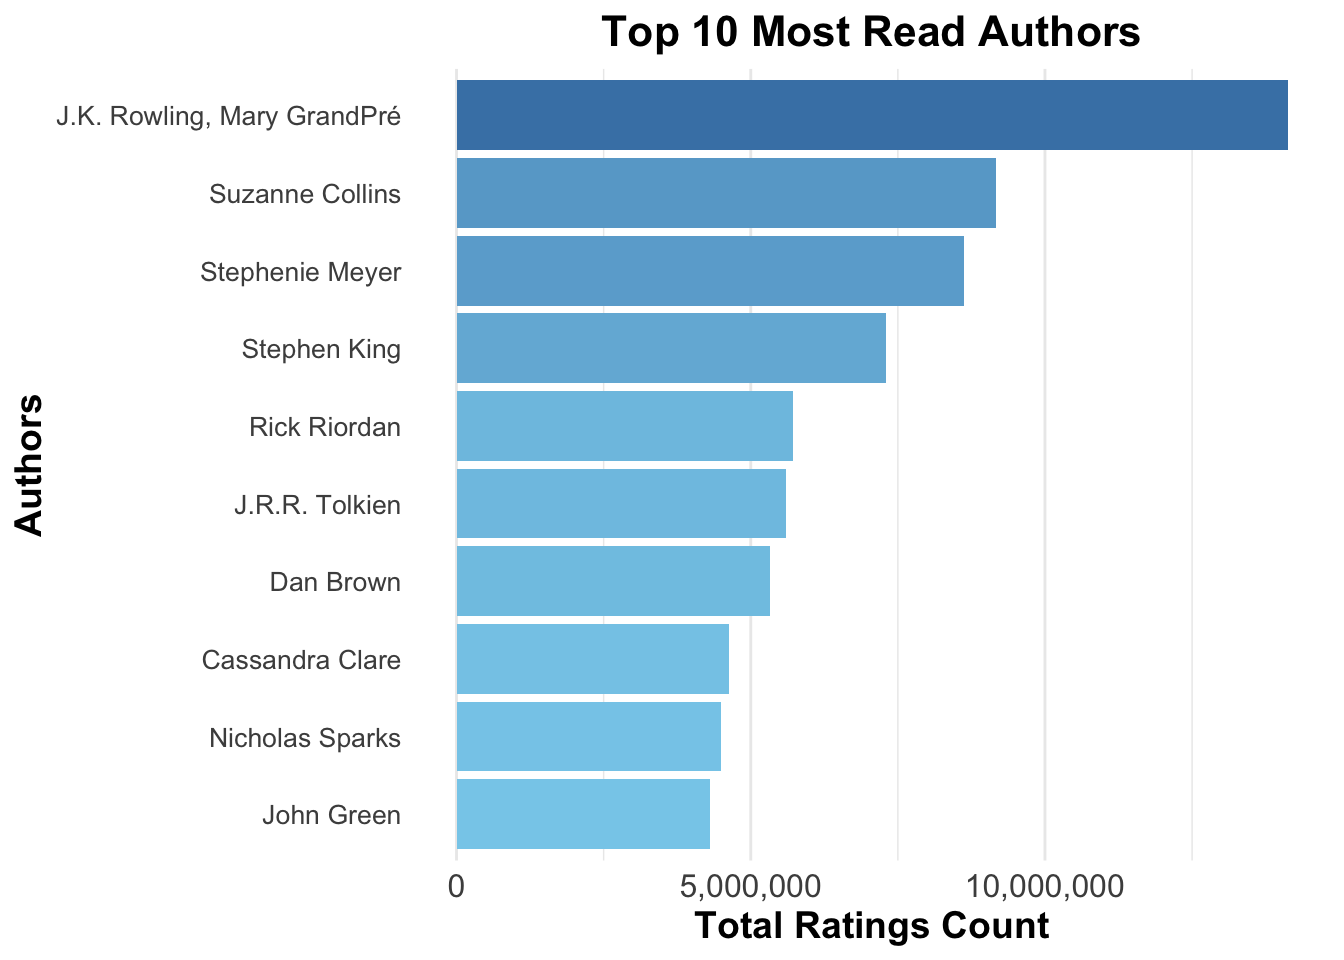
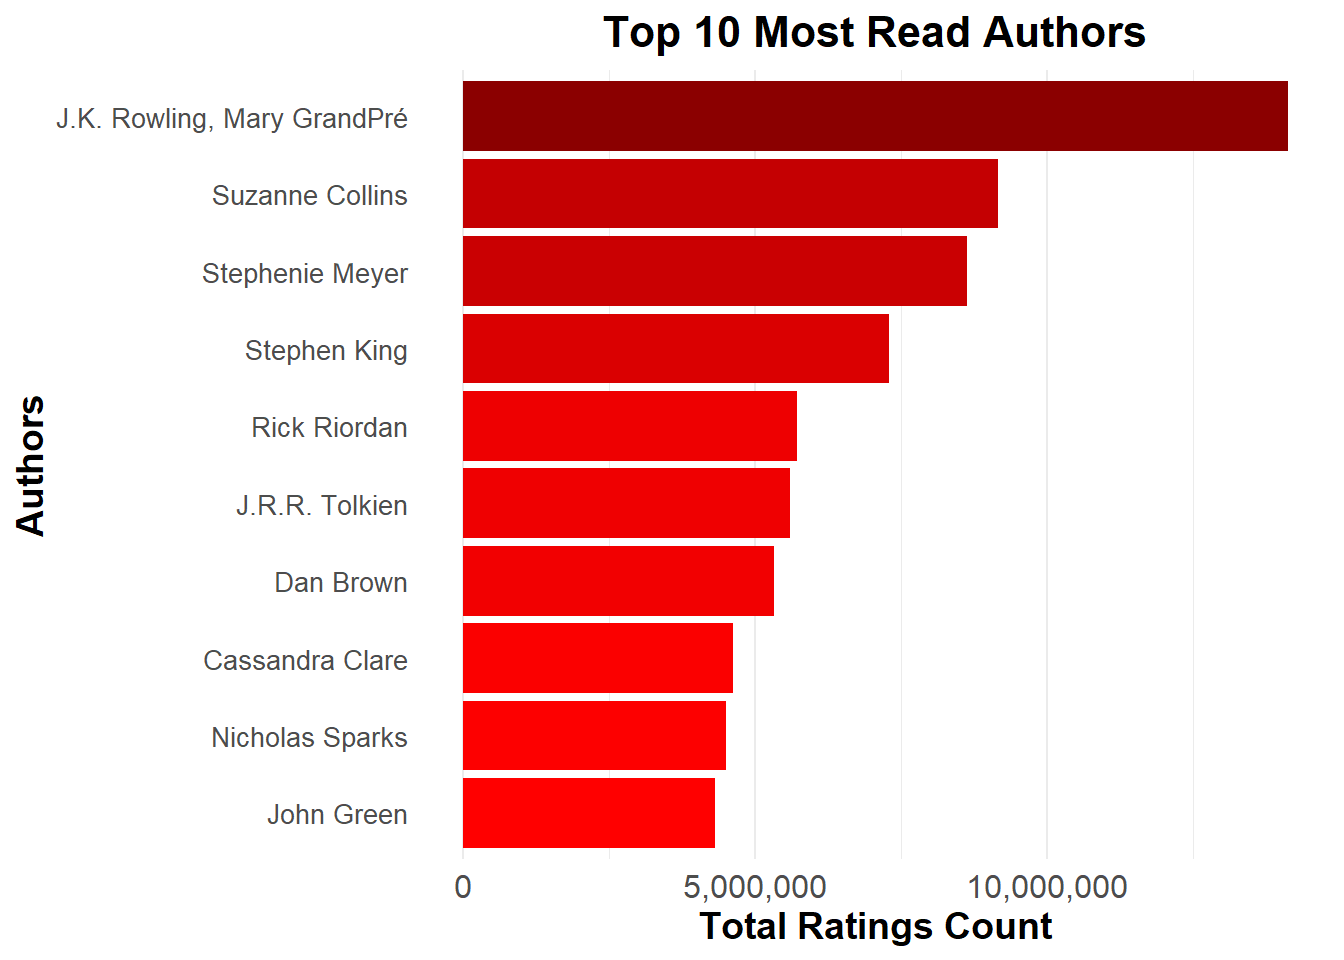
graphs (JM)

Changed region(s): [[0.0625, 0.0, 0.9688, 1.0], [0.0, 0.4062, 0.0312, 0.5625]]

diff --git a/authors.html b/authors.html
@@ -283,7 +283,7 @@ $(document).ready(function () {
   </ul>
 </li>
 <li>
-  <a href="reccomendations.html">Recommendations</a>
+  <a href="https://erynnejackson16.shinyapps.io/Recommendations2">Recommendations</a>
 </li>
 <li>
   <a href="https://github.com/jrm2319/p8105_final_project.io.git">
@@ -386,7 +386,7 @@ str(books)</code></pre>
 ##  1st Qu.:   5406   1st Qu.:   5334   Class :character   Class :character  
 ##  Median :   8270   Median :   8836   Mode  :character   Mode  :character  
 ##  Mean   :  19966   Mean   :  23790                                        
-##  3rd Qu.:  16024   3rd Qu.:  17304                                        
+##  3rd Qu.:  16024   3rd Qu.:  17305                                        
 ##  Max.   :1481305   Max.   :3011543                                        
 ## </code></pre>
 <div id="summarizing-read-counts-by-author" class="section level2">
@@ -414,14 +414,14 @@ head(most_read_authors, 50)</code></pre>
 ##  9 Nicholas Sparks                   4501871        19
 ## 10 John Green                        4312589         4
 ## # ℹ 40 more rows</code></pre>
-<pre class="r"><code>ggplot(head(most_read_authors, 10), aes(x = total_ratings, y = reorder(authors, total_ratings))) +
+<pre class="r"><code>most_read_authors = ggplot(head(most_read_authors, 10), aes(x = total_ratings, y = reorder(authors, total_ratings))) +
   geom_bar(stat = &quot;identity&quot;, aes(fill = total_ratings), show.legend = FALSE) +
   labs(
     title = &quot;Top 10 Most Read Authors&quot;,
     x = &quot;Total Ratings Count&quot;,
     y = &quot;Authors&quot;
   ) +
-  scale_fill_gradient(low = &quot;skyblue&quot;, high = &quot;steelblue&quot;) + # Gradient color
+  scale_fill_gradient(low = &quot;red&quot;, high = &quot;darkred&quot;) + # Gradient color
   theme_minimal() +
   theme(
     plot.title = element_text(size = 16, face = &quot;bold&quot;, hjust = 0.5), # Center and bold title
@@ -430,8 +430,11 @@ head(most_read_authors, 50)</code></pre>
     axis.title = element_text(size = 14, face = &quot;bold&quot;), # Bold axis labels
     panel.grid.major.y = element_blank() # Remove y-axis gridlines
   ) +
-  scale_x_continuous(labels = scales::comma)</code></pre>
+  scale_x_continuous(labels = scales::comma)
+
+print(most_read_authors)</code></pre>
 <p><img src="authors_files/figure-html/unnamed-chunk-2-1.png" width="672" /></p>
+<pre class="r"><code>ggsave(&quot;report visualizations/most_read_authors.png&quot;, plot = most_read_authors, width = 10, height = 6)</code></pre>
 </div>
 
 
